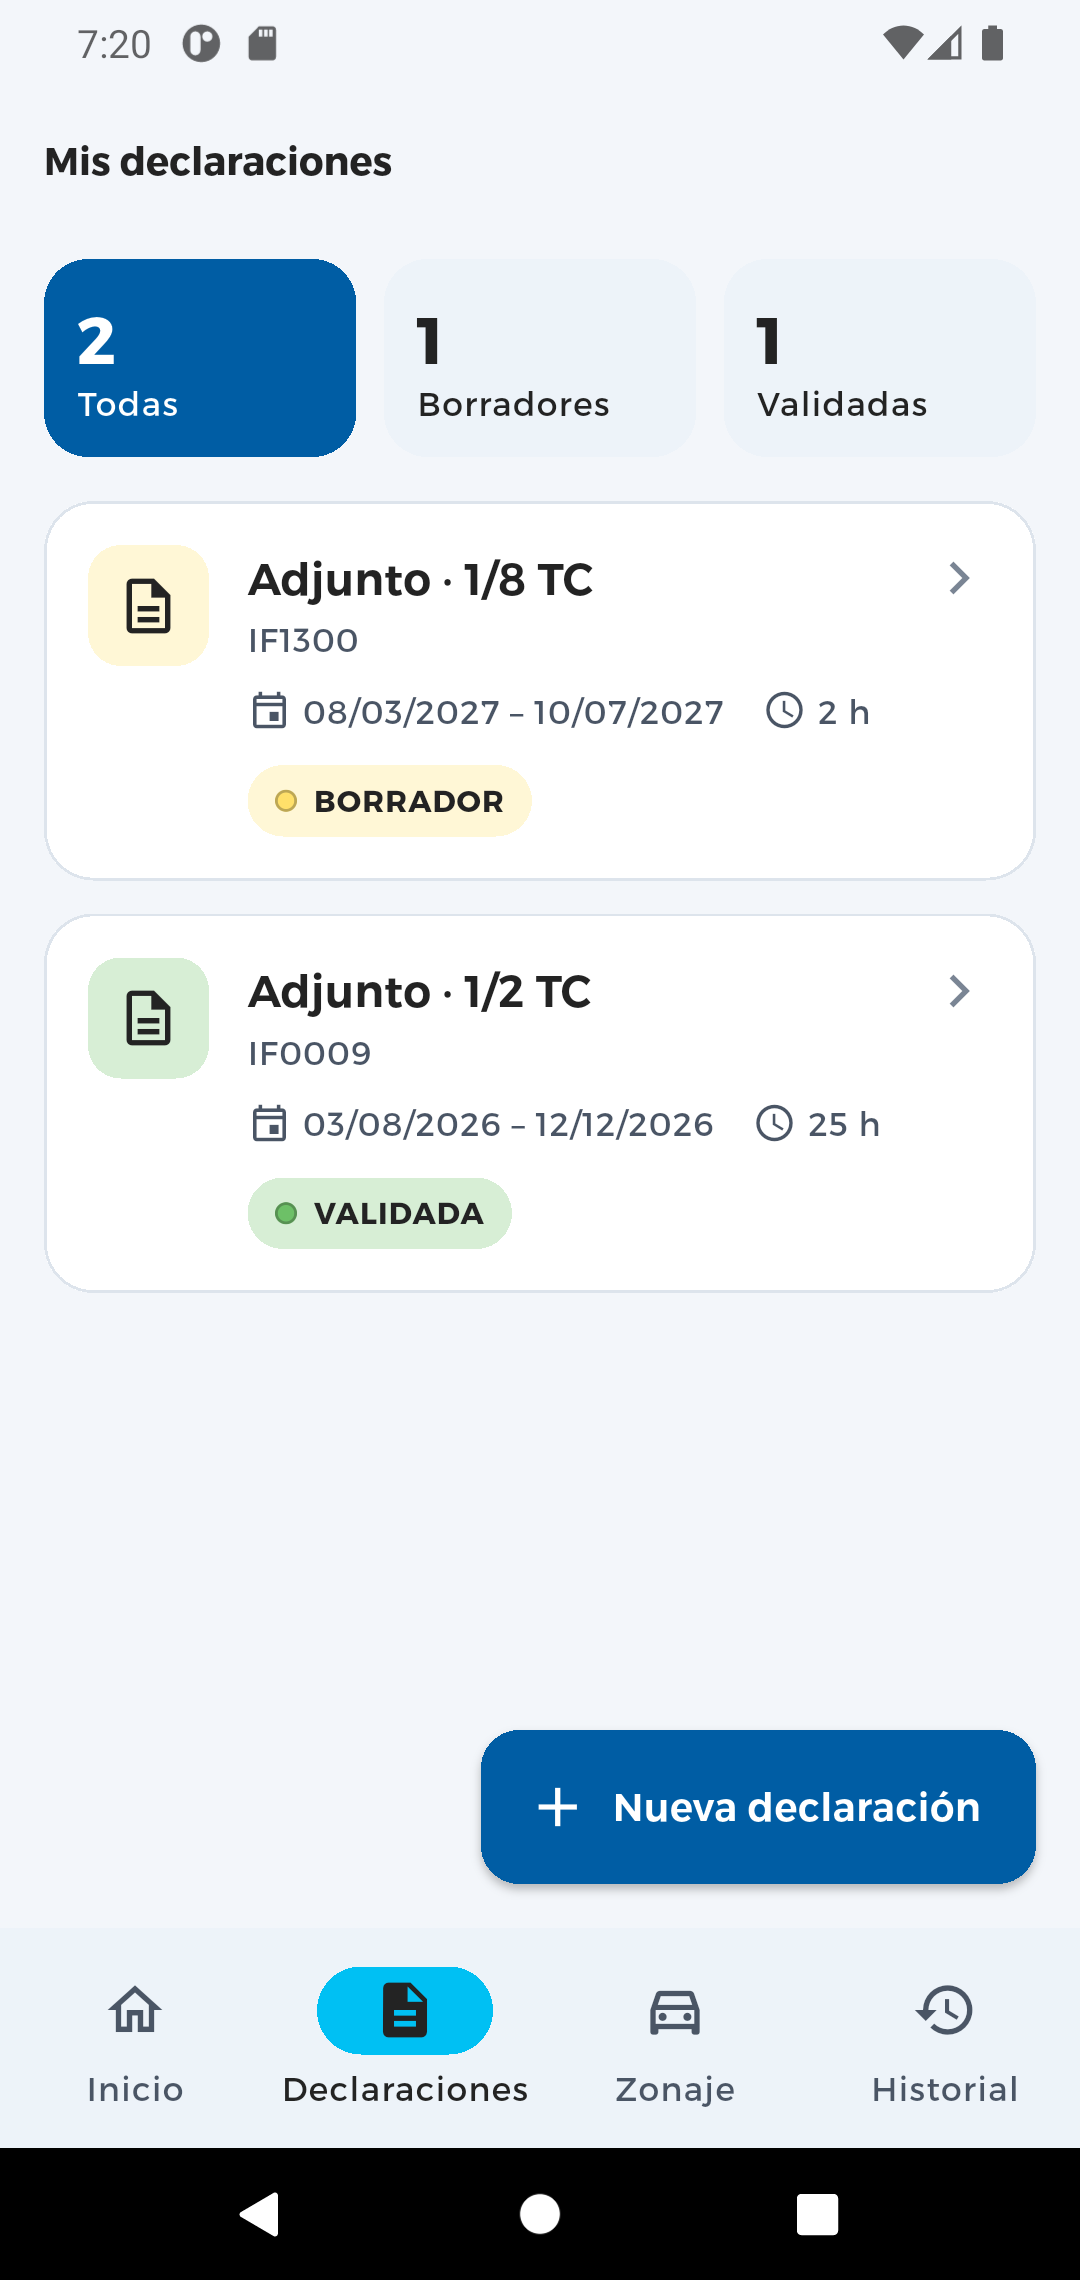
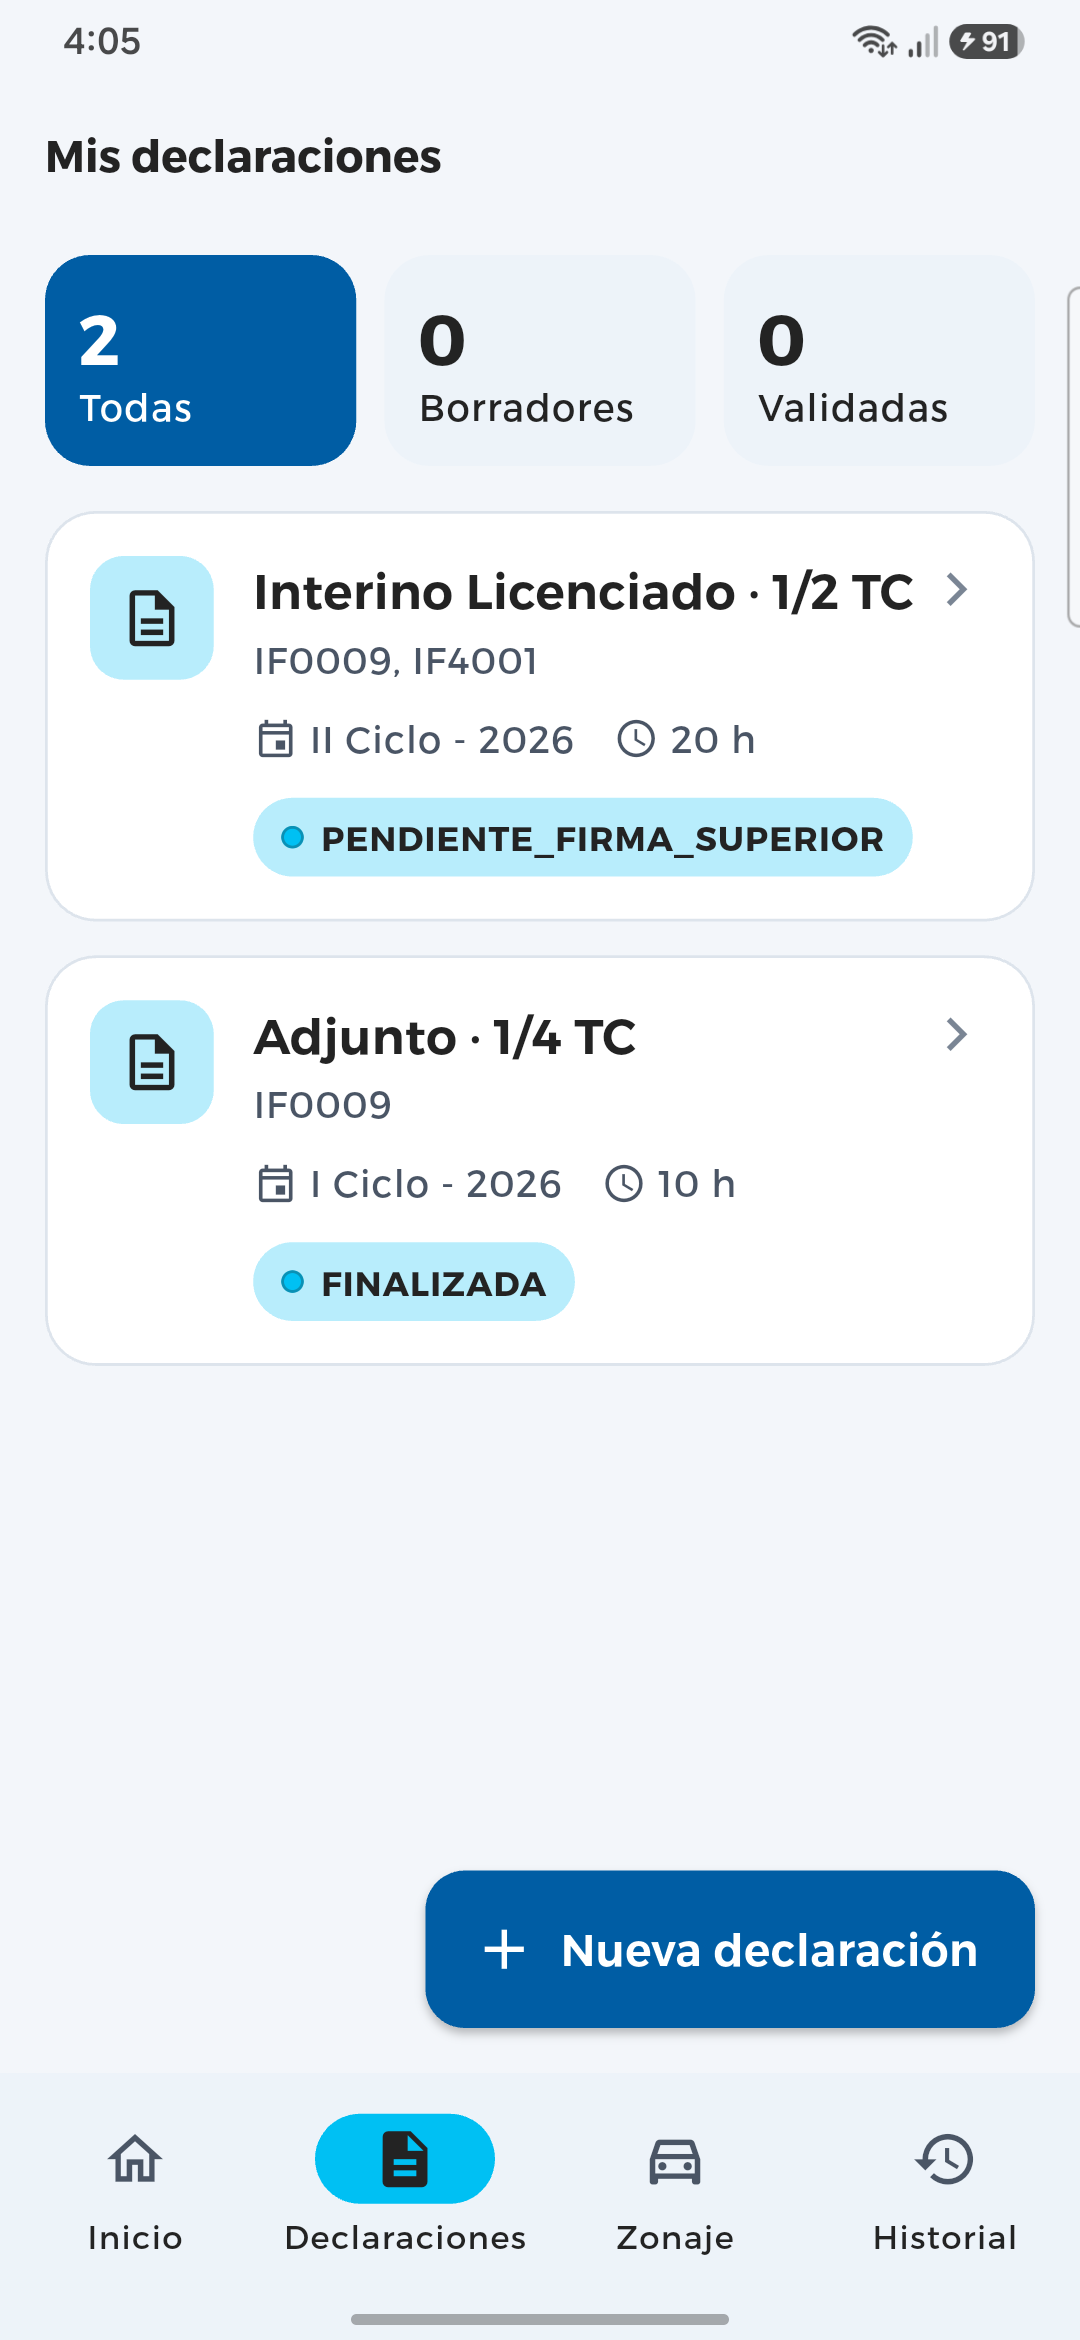
docs: screenshots of 2.0.0+4 with fictitious data
Eleven screenshots taken on a Samsung Galaxy A34 (Android 16, text 110 %)
against the Firebase emulators with the Proyecto 1 rules and the seed data,
never the real backend (its test accounts are the team's). New: sign-in,
signing and the PDF of the signed declaration; Inicio now shows the
tracking.

The seed gives each test account its name, as signing up in the app does,
so Inicio greets the person instead of the start of the email.

diff --git a/README.md b/README.md
@@ -244,19 +244,24 @@ All test data is fictitious.
 
 ## Evidence
 
-Screenshots from the Android app (Pixel 4 emulator, Android 11, local
-Firebase emulators, fictitious data), in `docs/capturas/`:
+Screenshots of version 2.0.0+4 (Samsung Galaxy A34, Android 16, text size
+110 %), against the Firebase emulators with the Proyecto 1 rules and the
+fictitious data of `backend/proyecto1/seed.mjs` (never the real backend: its
+test accounts are the team's), in `docs/capturas/`:
 
 | Screen | File |
 |--------|------|
-| Inicio (R1) | `docs/capturas/01-inicio.png` |
+| Sign-in | `docs/capturas/00-inicio-sesion.png` |
+| Inicio with the tracking of the latest declaration (R1) | `docs/capturas/01-inicio.png` |
 | Declaraciones with statuses (R1) | `docs/capturas/02-declaraciones.png` |
-| Courses and their hours (R2/R3) | `docs/capturas/03-cursos.png` |
-| Weekly schedule grid (R3) | `docs/capturas/04-horario.png` |
-| Overlap / missing hours flagged (R4, test 02) | `docs/capturas/05-validacion.png` |
-| Summary (R6) | `docs/capturas/06-resumen.png` |
-| Zonaje | `docs/capturas/07-zonaje.png` |
-| Historial by year, with a sent zonaje request | `docs/capturas/08-historial.png` |
+| Courses assigned by the coordination and their hours (R2/R3) | `docs/capturas/03-cursos.png` |
+| Weekly schedule grid with the fixed lessons (R3) | `docs/capturas/04-horario.png` |
+| Missing hours flagged, Validar disabled (R4, test 02) | `docs/capturas/05-validacion.png` |
+| Summary of a validated declaration, with the PDF action (R6) | `docs/capturas/06-resumen.png` |
+| Zonaje, read only, with HR's answer | `docs/capturas/07-zonaje.png` |
+| Historial by year, with a zonaje request | `docs/capturas/08-historial.png` |
+| Signing: the sworn declaration accepted, ready to send to the reviewer | `docs/capturas/09-firma.png` |
+| PDF of the signed declaration ("COPIA PARA REVISIÓN") | `docs/capturas/10-pdf.png` |
 
 Video (up to 2 minutes): <!-- link to the video -->
 
